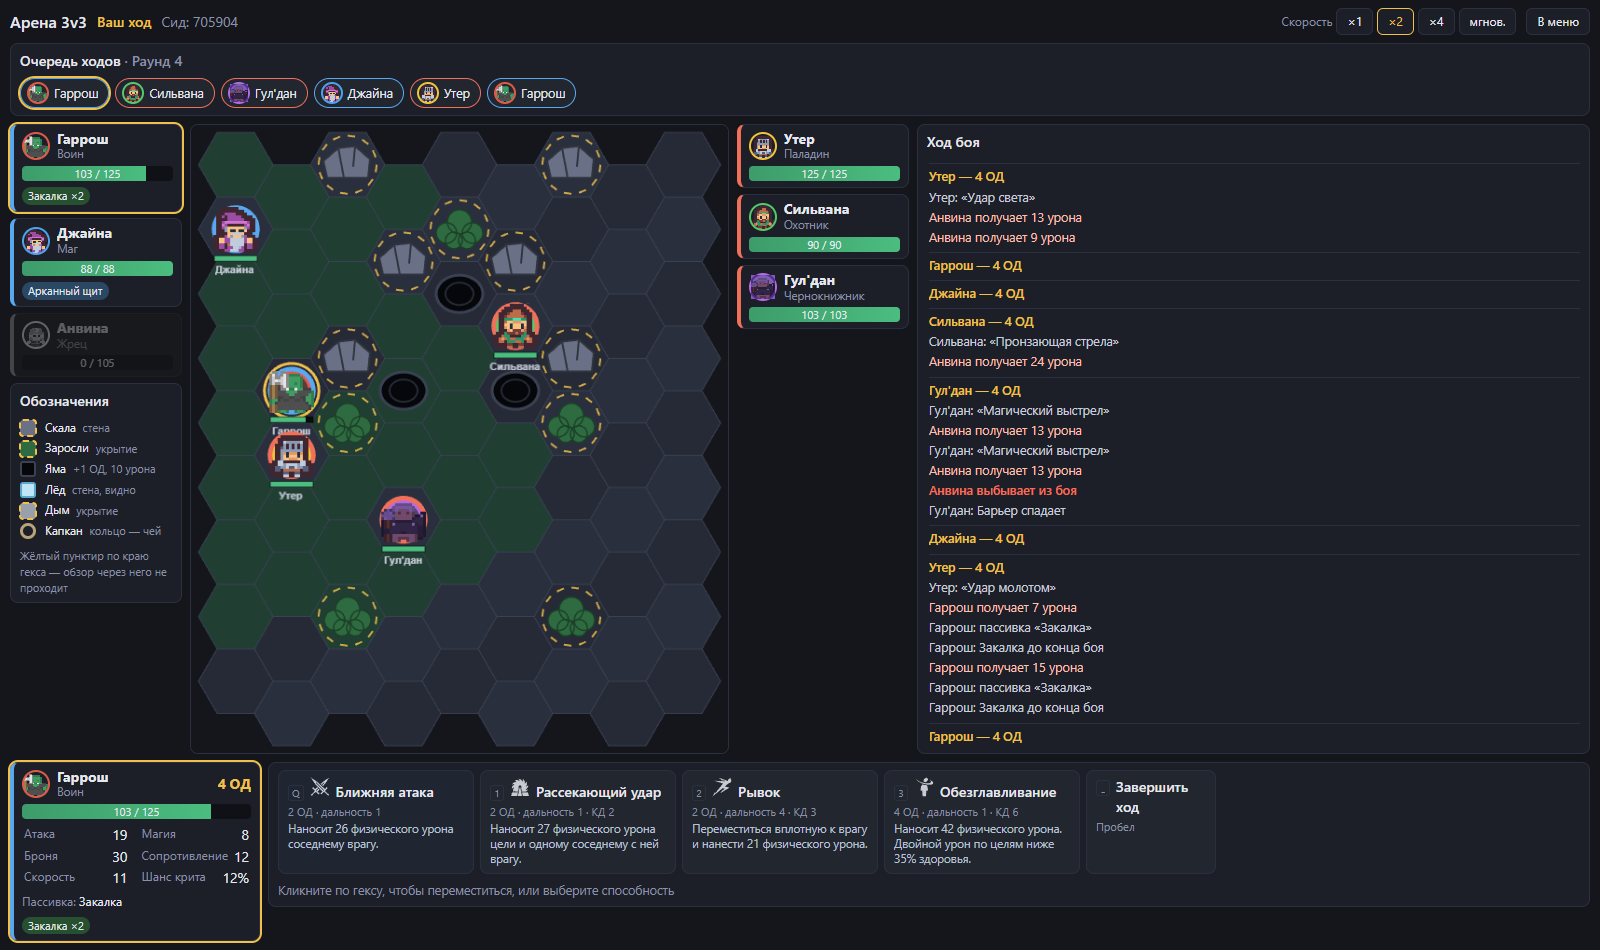
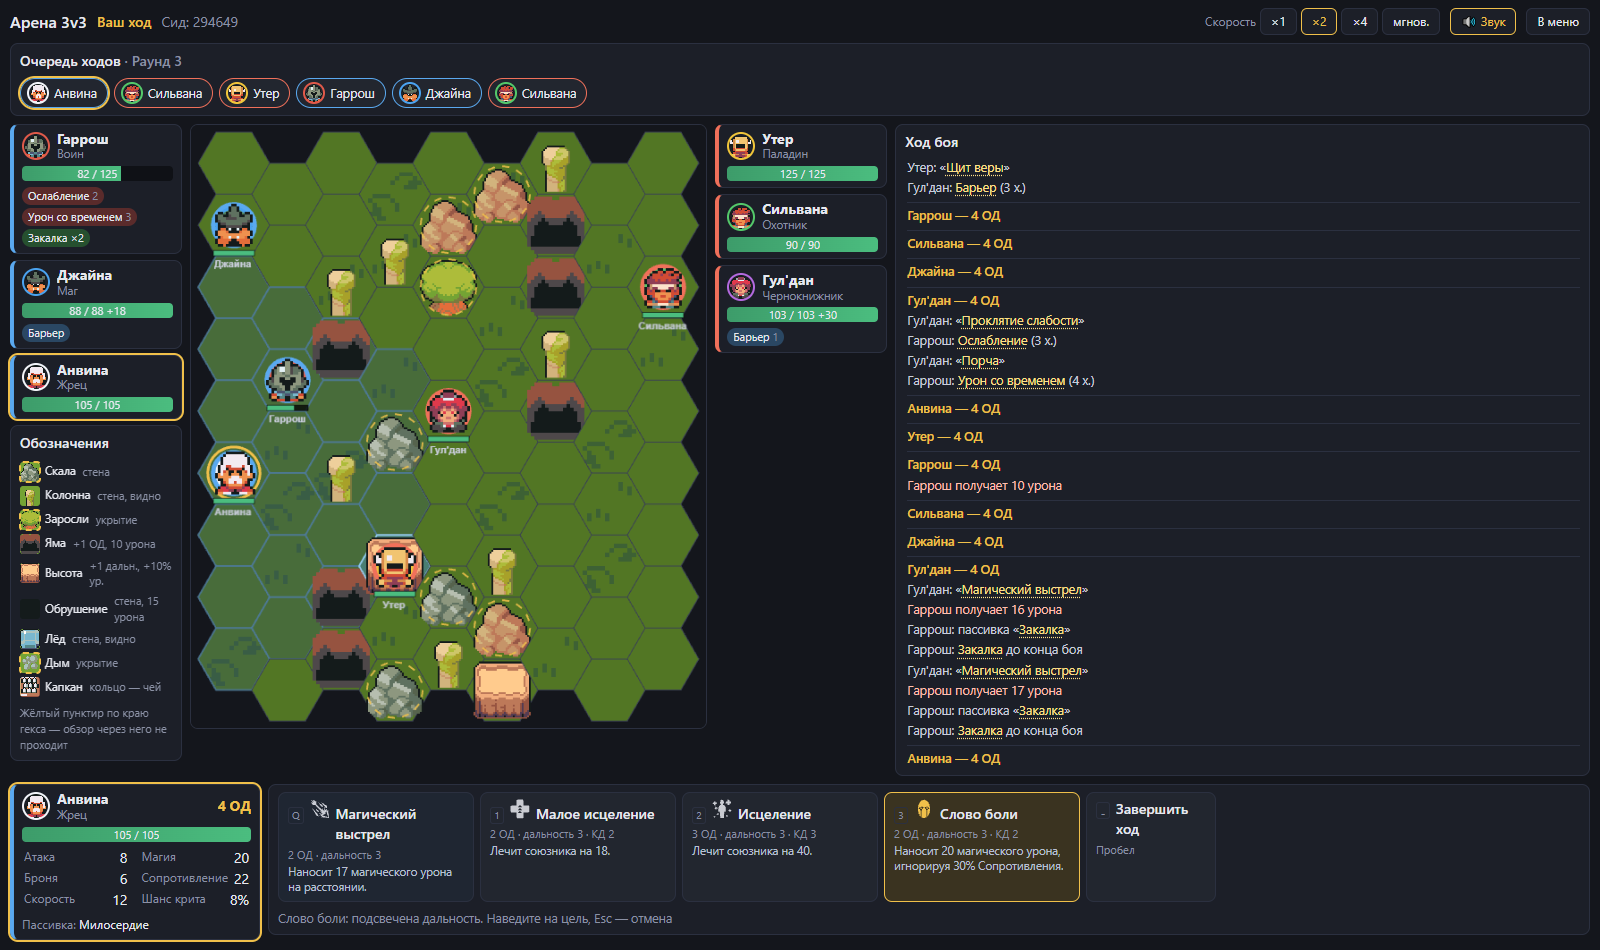
README: screenshots of the current version
Battle and draft retaken with the pixel-art board and the new battle UI;
the credits line now covers weapons, effects and sounds.

Changed region(s): [[0.0, 0.0611, 0.75, 1.0], [0.75, 0.0, 0.9375, 0.0305], [0.125, 0.0, 0.1562, 0.0305]]

diff --git a/README.md b/README.md
@@ -201,7 +201,7 @@ docs/
 
 ## Ассеты
 
-- Фигурки героев и тайлы поля — [Ninja Adventure](https://pixel-boy.itch.io/ninja-adventure-asset-pack), Pixel-Boy и AAA (CC0).
+- Фигурки героев, тайлы поля, оружие, эффекты способностей и звуки — [Ninja Adventure](https://pixel-boy.itch.io/ninja-adventure-asset-pack), Pixel-Boy и AAA (CC0).
 - Иконки способностей — [game-icons.net](https://game-icons.net) (CC BY 3.0), авторы Lorc,
   Delapouite и Sbed.
 
